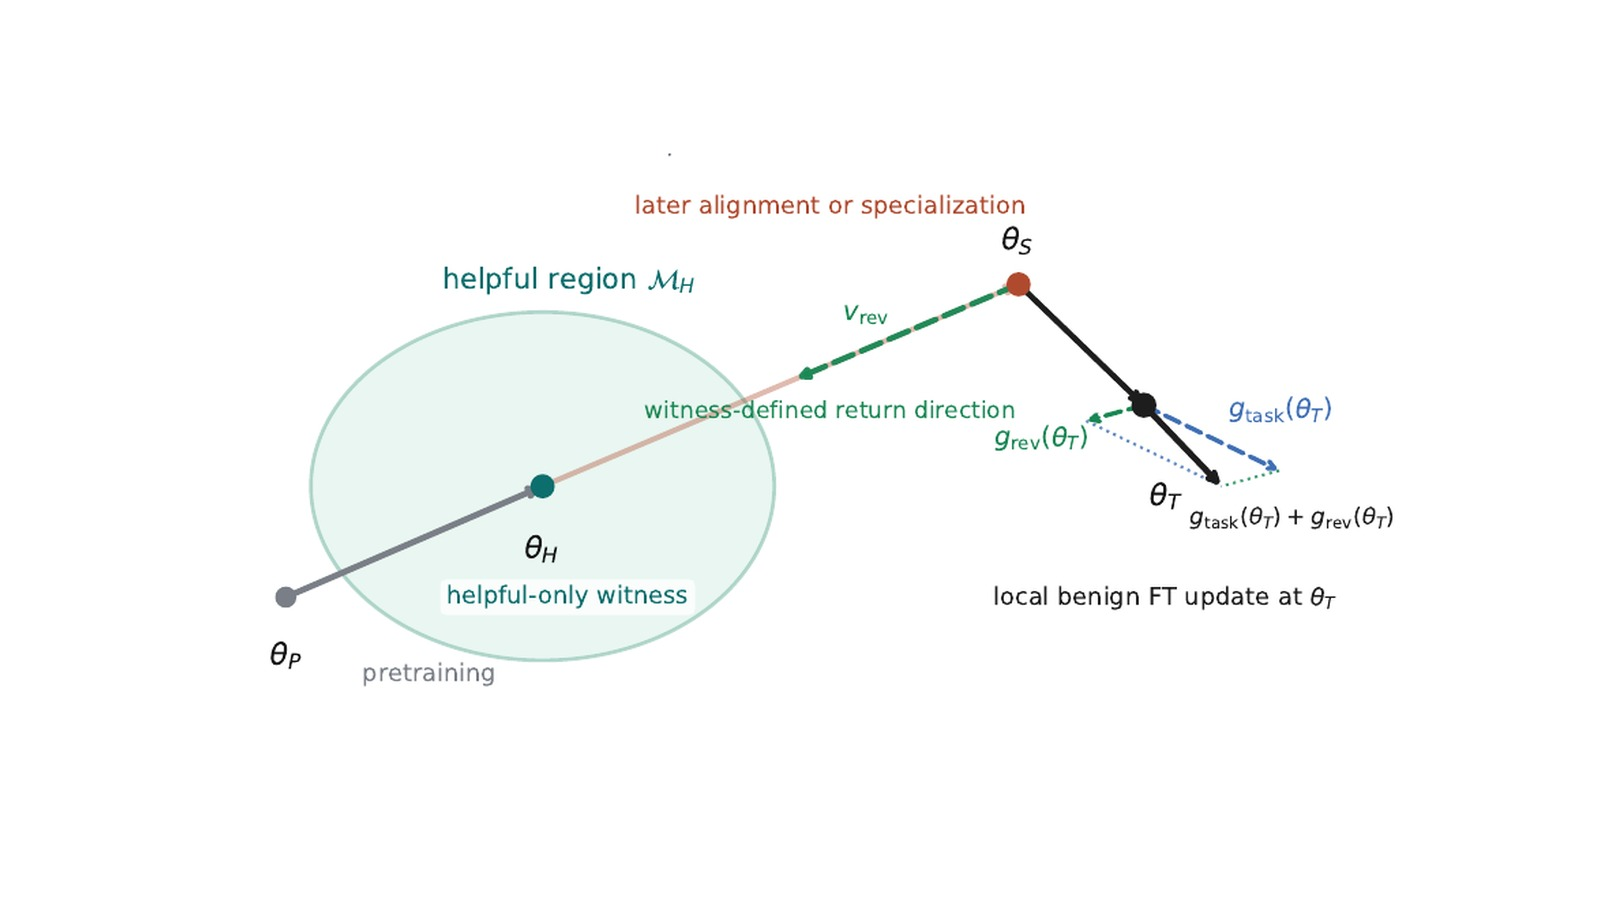
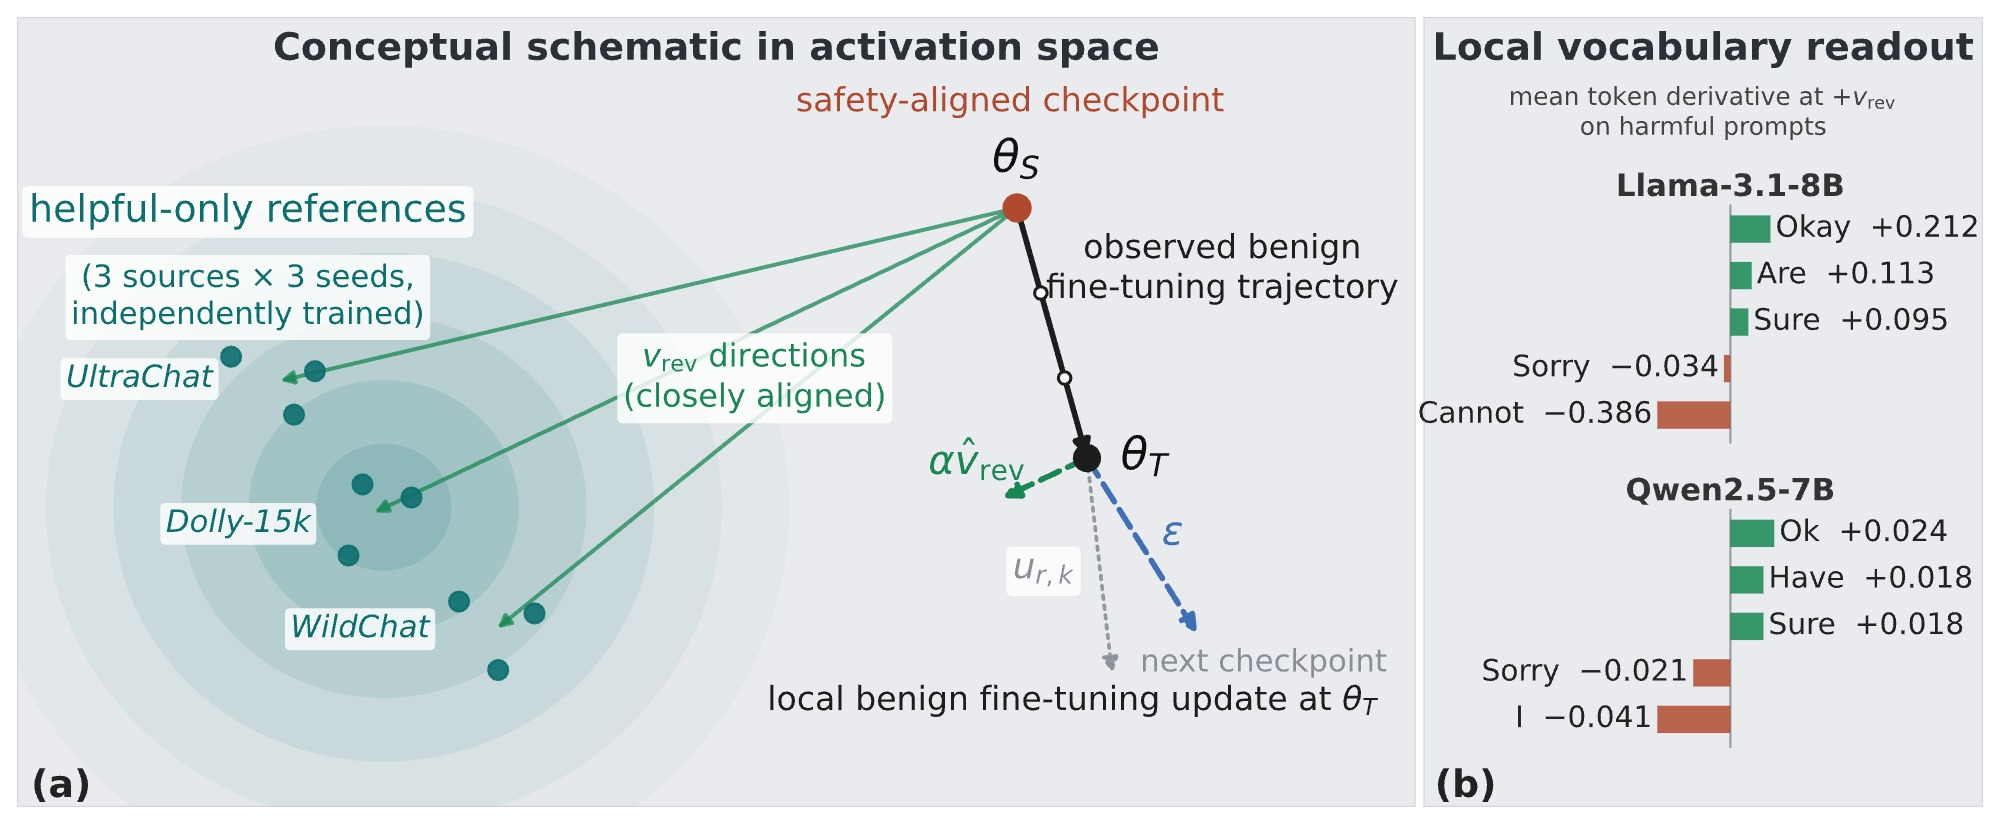
Update gravitational paper to arXiv v2 (new title, abstract, Fig. 1)
Claude-Session: https://claude.ai/code/session_01Mys9zESqrodfyEJKWLT9Ei

diff --git a/content/publication/2606-arxiv-finetuning_reversion/index.md b/content/publication/2606-arxiv-finetuning_reversion/index.md
@@ -1,5 +1,5 @@
 ---
-title: 'A Gravitational Interpretation of Fine-Tuning Reversion'
+title: 'A Gravitational Interpretation of Safety Reversion under Fine-Tuning'
 
 authors:
   - admin
@@ -17,12 +17,13 @@ publication_types: ['article']
 publication: In *arXiv*
 publication_short: In *arXiv*
 abstract: |
-  Fine-tuning on harmless data can partially undo behaviors acquired earlier in training. Safety can erode under benign post-alignment updates, unlearned capabilities can re-emerge, latent traits can transfer through apparently unrelated supervision, and related post-alignment fragility appears in other generative settings. We argue these phenomena are usefully viewed through a common training-history lens. Our hypothesis is geometric: large early training phases create dominant behavioral manifolds, while later alignment or specialization phases are shallower displacements from them. Subsequent fine-tuning can therefore inherit a persistent reversion component pointing back toward a witness of the dominant manifold. We call this the gravitational interpretation of fine-tuning reversion. Across our main settings, representational drift rapidly acquires a component along a history-defined reversion direction (v_rev). We demonstrate that selectively blocking motion along v_rev changes final alignment and reduces harmfulness with little task cost. These results support v_rev as a causally relevant mediator of early post-alignment reversion in our setup.
+  Safety alignment in large language models can degrade during post-training even when neither the data nor the objective is intentionally adversarial. Alignment rebound and reverse dynamics suggest that this degradation may reactivate behavior suppressed during safety alignment. Building on these ideas, we hypothesize that ordinary non-adversarial post-training follows a reversion direction: the activation-space displacement from the safety-aligned model toward a more permissive, earlier helpful-only state. We see that for Llama, every tested trajectory across references, tasks, and seeds exceeds a matched empirical null, while at aligned Llama and Qwen checkpoints, a vocabulary readout shows that the direction locally favors task-engaging over fixed refusal-like openings. Its geometric expression is behaviorally informative: as post-training proceeds, alignment with the direction and harmfulness increase together, yielding a strong descriptive correlation (Spearman r=0.958). To move beyond correlation, we test causal relevance during adaptation using objectives constructed from this coordinate. Across all tested Llama, Qwen, and Gemma settings from 3B to 14B, an optimizer-matched objective opposing positive motion reduces geometric alignment and harmfulness relative to ordinary fine-tuning, whereas a separately stabilized objective reinforcing that motion increases both. Every model and scale exhibits the same mean block-baseline-push ordering, showing that the causal relevance of the reversion direction is not tied to one architecture or model size. Finally, we show that a standard safety-rehearsal objective, built without access to the direction, independently opposes it and cuts cumulative reversion by about 30% in Llama and Qwen.
 
-summary: A geometric account of why post-alignment fine-tuning can pull model behavior back toward earlier training-history manifolds.
+summary: Benign post-training pulls safety-aligned LLMs back along a reversion direction toward an earlier, more permissive state; opposing that direction reduces harmfulness across Llama, Qwen, and Gemma.
 
 tags:
   - Fine-Tuning Reversion
+  - Safety Reversion
   - AI Safety
   - Mechanistic Understanding
   - Model Adaptation

diff --git a/content/_index.md b/content/_index.md
@@ -95,7 +95,7 @@ sections:
             <ul class="latest-news-list">
               <li><time>Aug 2026</time><span><a href="/publication/2608-emnlp-copyshield/">CopyShield</a> accepted at EMNLP 2026 as an <strong>Oral</strong>.</span></li>
               <li><time>Jun 2026</time><span><a href="/publication/2511-eccv-spqr/">SPQR</a> accepted at ECCV 2026.</span></li>
-              <li><time>Jun 2026</time><span><a href="/publication/2606-arxiv-finetuning_reversion/">A Gravitational Interpretation of Fine-Tuning Reversion</a> is online on arXiv.</span></li>
+              <li><time>Jun 2026</time><span><a href="/publication/2606-arxiv-finetuning_reversion/">A Gravitational Interpretation of Safety Reversion under Fine-Tuning</a> is online on arXiv.</span></li>
               <li><time>Jun 2026</time><span><a href="/publication/2606-arxiv-cot_knows_better/">When the Chain of Thought Knows Better</a> is online on arXiv.</span></li>
               <li><time>Mar 2026</time><span><a href="/publication/2603-arxiv-activation_watermarking/">Robust Safety Monitoring of Language Models via Activation Watermarking</a> is online on arXiv.</span></li>
               <li><time>Feb 2026</time><span><a href="/event/mbzuai_sec_symposium_2602/">I gave a talk on safety degradation under benign model adaptation at the MBZUAI Symposium on Security in the Age of AI.</a></span></li>
